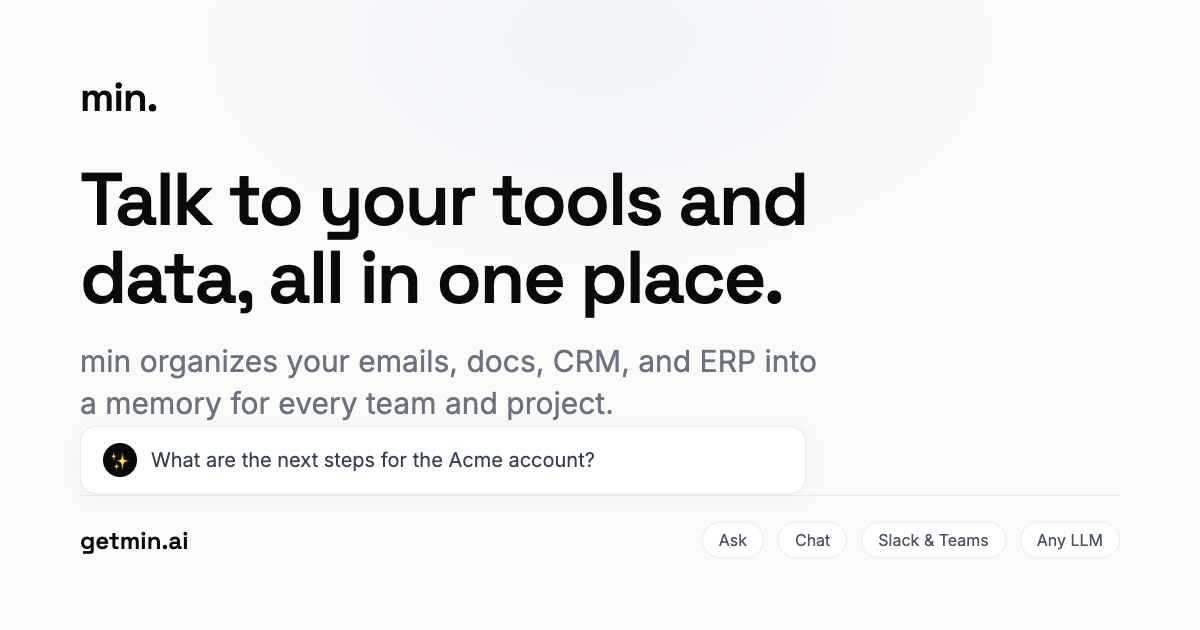
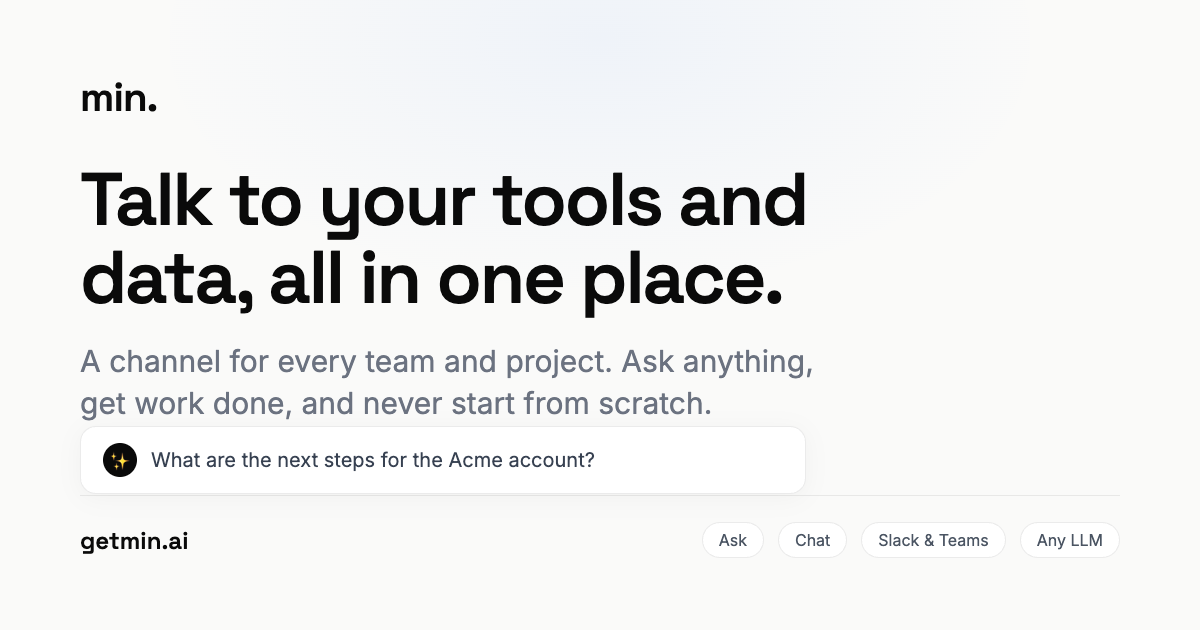
lets go

Changed region(s): [[0.0617, 0.5429, 0.6783, 0.6635]]

diff --git a/src/components/vision/BrainAnimation.tsx b/src/components/vision/BrainAnimation.tsx
@@ -216,7 +216,7 @@ export default function BrainAnimation() {
             transition={{ delay: 0.1 }}
             className="text-gray-500 text-base md:text-lg max-w-2xl mx-auto font-normal leading-relaxed"
           >
-            Watch min instantly pull scattered documents, emails, calls, and CRM/ERP records and sort them into the right team and project memories.
+            Watch min instantly pull scattered documents, emails, calls, and CRM/ERP records and sort them into the right team and project channels.
           </motion.p>
         </div>
 
@@ -226,61 +226,71 @@ export default function BrainAnimation() {
           {/* Animation Core Area */}
           <div className="w-full h-full relative flex items-center justify-center overflow-visible">
             
-            {/* Center Brain: Simple, Minimal, Styled Line-Art Vector Brain */}
+            {/* Center Brain: two mirrored hemispheres built from circular arcs */}
             <div className="relative w-[525px] h-[525px] flex items-center justify-center z-10">
-              <svg viewBox="0 0 100 100" className="w-full h-full text-gray-200 transition-colors duration-500" fill="none">
+              <svg viewBox="0 0 200 200" className="w-full h-full" fill="none">
                 {/* Subtle Background Radial Gradient Glow only when organized */}
                 <AnimatePresence>
                   {status === 'organized' && (
-                    <motion.circle 
+                    <motion.circle
                       initial={{ opacity: 0, scale: 0.8 }}
                       animate={{ opacity: 0.25, scale: 1 }}
                       exit={{ opacity: 0, scale: 0.8 }}
                       transition={{ duration: 0.6 }}
-                      cx="50" cy="50" r="38" 
-                      fill="url(#brainGlowRad)" 
+                      cx="100" cy="100" r="78"
+                      fill="url(#brainGlowRad)"
                     />
                   )}
                 </AnimatePresence>
 
-                {/* Symmetrical left and right brain contours */}
-                <motion.path 
-                  d="M 50 15 
-                     C 31 15, 17 28, 17 46 
-                     C 17 56, 23 62, 20 70 
-                     C 16 80, 25 88, 36 88 
-                     C 42 88, 44 81, 50 83" 
-                  stroke={status === 'organized' ? '#E2E8F0' : status === 'organizing' ? '#93C5FD' : '#E2E8F0'} 
-                  strokeWidth="1.5" 
-                  strokeLinecap="round" 
-                  strokeLinejoin="round" 
-                  fill="white" 
-                  className="shadow-sm filter drop-shadow-[0_4px_10px_rgba(0,0,0,0.01)]"
-                />
-                <motion.path 
-                  d="M 50 15 
-                     C 69 15, 83 28, 83 46 
-                     C 83 56, 77 62, 80 70 
-                     C 84 80, 75 88, 64 88 
-                     C 58 88, 56 81, 50 83" 
-                  stroke={status === 'organized' ? '#E2E8F0' : status === 'organizing' ? '#93C5FD' : '#E2E8F0'} 
-                  strokeWidth="1.5" 
-                  strokeLinecap="round" 
-                  strokeLinejoin="round" 
+                {/* Left hemisphere: outline of tangent circular arcs (lobes), straight medial edge */}
+                <motion.path
+                  d="M 97 26
+                     A 30 30 0 0 0 64 38
+                     A 30 30 0 0 0 41 62
+                     A 30 30 0 0 0 33 94
+                     A 30 30 0 0 0 38 126
+                     A 28 28 0 0 0 53 152
+                     A 26 26 0 0 0 78 168
+                     A 14 14 0 0 0 97 173
+                     L 97 26 Z"
+                  animate={{ stroke: status === 'organizing' ? '#BFDBFE' : '#E2E8F0' }}
+                  transition={{ duration: 0.5 }}
+                  strokeWidth="2"
+                  strokeLinecap="round"
+                  strokeLinejoin="round"
                   fill="white"
-                  className="shadow-sm filter drop-shadow-[0_4px_10px_rgba(0,0,0,0.01)]"
+                  className="filter drop-shadow-[0_6px_14px_rgba(15,23,42,0.04)]"
                 />
+                {/* Left gyri: two long inner contours echoing the outline */}
+                <path d="M 88 48 C 62 56, 50 80, 49 106" stroke="#EEF1F5" strokeWidth="2.2" strokeLinecap="round" />
+                <path d="M 86 150 C 68 145, 56 128, 53 110" stroke="#EEF1F5" strokeWidth="2.2" strokeLinecap="round" />
+                <path d="M 90 94 C 80 90, 73 82, 71 72" stroke="#EEF1F5" strokeWidth="2.2" strokeLinecap="round" />
 
-                {/* Simple lobe line accents representing the hemispheres beautifully */}
-                <path d="M 31 32 C 31 38, 43 40, 50 36 M 41 22 C 39 32, 47 34, 50 42" stroke="#F1F5F9" strokeWidth="1.2" />
-                <path d="M 69 32 C 69 38, 57 40, 50 36 M 59 22 C 61 32, 53 34, 50 42" stroke="#F1F5F9" strokeWidth="1.2" />
-                <path d="M 19 50 C 25 50, 32 55, 39 55 C 43 55, 47 49, 50 51" stroke="#F1F5F9" strokeWidth="1.2" />
-                <path d="M 81 50 C 75 50, 68 55, 61 55 C 57 55, 53 49, 50 51" stroke="#F1F5F9" strokeWidth="1.2" />
-                <path d="M 28 73 C 32 66, 40 69, 50 64" stroke="#F1F5F9" strokeWidth="1.2" />
-                <path d="M 72 73 C 68 66, 60 69, 50 64" stroke="#F1F5F9" strokeWidth="1.2" />
-                
-                {/* Divider line */}
-                <line x1="50" y1="15" x2="50" y2="83" stroke="#F1F5F9" strokeWidth="1.5" strokeDasharray="2 2" />
+                {/* Right hemisphere: exact mirror of the left */}
+                <g transform="translate(200 0) scale(-1 1)">
+                  <motion.path
+                    d="M 97 26
+                       A 30 30 0 0 0 64 38
+                       A 30 30 0 0 0 41 62
+                       A 30 30 0 0 0 33 94
+                       A 30 30 0 0 0 38 126
+                       A 28 28 0 0 0 53 152
+                       A 26 26 0 0 0 78 168
+                       A 14 14 0 0 0 97 173
+                       L 97 26 Z"
+                    animate={{ stroke: status === 'organizing' ? '#BFDBFE' : '#E2E8F0' }}
+                    transition={{ duration: 0.5 }}
+                    strokeWidth="2"
+                    strokeLinecap="round"
+                    strokeLinejoin="round"
+                    fill="white"
+                    className="filter drop-shadow-[0_6px_14px_rgba(15,23,42,0.04)]"
+                  />
+                  <path d="M 88 48 C 62 56, 50 80, 49 106" stroke="#EEF1F5" strokeWidth="2.2" strokeLinecap="round" />
+                  <path d="M 86 150 C 68 145, 56 128, 53 110" stroke="#EEF1F5" strokeWidth="2.2" strokeLinecap="round" />
+                  <path d="M 90 94 C 80 90, 73 82, 71 72" stroke="#EEF1F5" strokeWidth="2.2" strokeLinecap="round" />
+                </g>
 
                 <defs>
                   <radialGradient id="brainGlowRad" cx="50%" cy="50%" r="50%">
@@ -290,18 +300,31 @@ export default function BrainAnimation() {
                 </defs>
               </svg>
 
-              {/* Minimalist State Indicator Widget right in the brain center */}
-              <div className="absolute z-20 inset-0 flex items-center justify-center p-6">
-                <div className="w-[125px] h-[125px] rounded-full bg-white border border-gray-200 shadow-md flex items-center justify-center flex-col p-3 text-center">
-                  <span className="text-[11px] font-bold text-gray-800 tracking-wider uppercase font-sans leading-tight">
-                    Collective<br />Memory
+              {/* Status pill narrating the animation state */}
+              <div className="absolute z-20 inset-0 flex items-center justify-center pointer-events-none">
+                <motion.div
+                  key={status}
+                  initial={{ opacity: 0, y: 6 }}
+                  animate={{ opacity: 1, y: 0 }}
+                  transition={{ duration: 0.3 }}
+                  className="flex items-center gap-2 rounded-full bg-white border border-gray-200 shadow-md px-4 py-2"
+                >
+                  {status === 'organized' ? (
+                    <span className="w-4 h-4 rounded-full bg-emerald-500 flex items-center justify-center">
+                      <Check className="w-2.5 h-2.5 text-white" strokeWidth={3.5} />
+                    </span>
+                  ) : (
+                    <span className={`w-2 h-2 rounded-full ${status === 'organizing' ? 'bg-blue-500 animate-pulse' : 'bg-amber-400'}`} />
+                  )}
+                  <span className="text-xs font-semibold text-gray-800 whitespace-nowrap">
+                    {status === 'messy' ? 'Scattered across your tools' : status === 'organizing' ? 'min is organizing...' : 'Organized into channels'}
                   </span>
-                </div>
+                </motion.div>
               </div>
             </div>
 
             {/* Scattered Document Cards smoothly transitioning */}
-            {INITIAL_FILES.map((file) => {
+            {INITIAL_FILES.map((file, idx) => {
               const isLeft = file.side === 'left';
               const stackX = file.organizedX + file.stackIndex * 6;
               const stackY = file.organizedY + file.stackIndex * 8;
@@ -318,16 +341,9 @@ export default function BrainAnimation() {
                     scale: 1,
                     opacity: 1,
                     zIndex: 10,
-                  } : status === 'organizing' ? {
-                    // Smooth mid-way drift
-                    x: stackX * 0.4,
-                    y: stackY * 0.4,
-                    rotate: file.messyRotate * 0.4,
-                    scale: 0.85 - file.stackIndex * 0.02,
-                    opacity: 0.7,
-                    zIndex: 30 - file.stackIndex,
                   } : {
-                    // Organized and layered inside hemispheres
+                    // Stream straight into the hemisphere stacks; no mid-point
+                    // pile-up at the center.
                     x: stackX,
                     y: stackY,
                     rotate: stackRotate,
@@ -335,11 +351,12 @@ export default function BrainAnimation() {
                     opacity: 1,
                     zIndex: 30 - file.stackIndex,
                   }}
-                  transition={{ 
-                    type: 'spring', 
-                    stiffness: status === 'organizing' ? 140 : 85, 
-                    damping: status === 'organizing' ? 22 : 14,
+                  transition={{
+                    type: 'spring',
+                    stiffness: status === 'organizing' ? 110 : 85,
+                    damping: status === 'organizing' ? 20 : 14,
                     mass: 1.0,
+                    delay: status === 'organizing' ? idx * 0.06 : 0,
                   }}
                   className={`absolute rounded-xl border bg-white border-gray-200/80 p-2 text-[11px] pr-3.5 flex items-center gap-3 transition-shadow cursor-default select-none group w-[212px] ${
                     status === 'organized' 

diff --git a/src/components/vision/FadeIn.tsx b/src/components/vision/FadeIn.tsx
@@ -2,10 +2,11 @@ import { motion } from 'motion/react';
 import { ReactNode, useEffect, useRef, useState } from 'react';
 
 /**
- * Scroll-reveal wrapper. Uses a getBoundingClientRect check on mount + scroll
- * (reliable in every environment, unlike IntersectionObserver which can stay
- * dormant in background/headless tabs) plus a short mount safety-net so content
- * is never left permanently hidden.
+ * Scroll-reveal wrapper. Uses a getBoundingClientRect check on mount, scroll,
+ * and resize (reliable in every environment, unlike IntersectionObserver which
+ * can stay dormant in background/headless tabs). Rechecks after layout settles
+ * (rAF + window load) so late image/font shifts don't strand visible content.
+ * Off-screen content stays hidden until it actually scrolls into view.
  */
 export function FadeIn({ children, delay = 0, className = "" }: { children: ReactNode, delay?: number, className?: string, key?: any }) {
   const ref = useRef<HTMLDivElement>(null);
@@ -15,30 +16,35 @@ export function FadeIn({ children, delay = 0, className = "" }: { children: Reac
     const el = ref.current;
     if (!el) return;
 
+    let revealed = false;
     const check = () => {
+      if (revealed) return true;
       const r = el.getBoundingClientRect();
       const vh = window.innerHeight || document.documentElement.clientHeight;
       if (r.top < vh - 50 && r.bottom > 0) {
+        revealed = true;
         setShow(true);
+        cleanup();
         return true;
       }
       return false;
     };
 
-    if (check()) return;
-
-    const onScroll = () => { if (check()) cleanup(); };
+    const onScroll = () => check();
     const cleanup = () => {
       window.removeEventListener('scroll', onScroll);
       window.removeEventListener('resize', onScroll);
+      window.removeEventListener('load', onScroll);
     };
+
+    if (check()) return;
+
     window.addEventListener('scroll', onScroll, { passive: true });
     window.addEventListener('resize', onScroll);
+    window.addEventListener('load', onScroll);
+    const raf = requestAnimationFrame(() => check());
 
-    // Safety net: reveal shortly after mount even if no scroll occurs.
-    const t = setTimeout(() => setShow(true), 600);
-
-    return () => { cleanup(); clearTimeout(t); };
+    return () => { cleanup(); cancelAnimationFrame(raf); };
   }, []);
 
   return (

diff --git a/src/components/vision/SearchMockup.tsx b/src/components/vision/SearchMockup.tsx
@@ -299,7 +299,12 @@ export function SearchMockup() {
               {/* Chat History Flow Area */}
               <div ref={chatContainerRef} className="flex-1 w-full flex flex-col gap-6 p-5 md:p-6 overflow-y-auto scrollbar-thin">
                 <AnimatePresence mode="wait">
-                  <div key={activeId} className="flex flex-col gap-6 w-full max-w-2xl mx-auto">
+                  <motion.div
+                    key={activeId}
+                    exit={{ opacity: 0, y: -8 }}
+                    transition={{ duration: 0.2, ease: 'easeIn' }}
+                    className="flex flex-col gap-6 w-full max-w-2xl mx-auto"
+                  >
                 
                 {/* 1. User Message (always shown when use case starts) */}
                 <motion.div 
@@ -374,8 +379,8 @@ export function SearchMockup() {
                     </div>
                   </motion.div>
                 )}
-                
-              </div>
+
+              </motion.div>
             </AnimatePresence>
           </div>
 

diff --git a/index.html b/index.html
@@ -7,7 +7,7 @@
     <title>min. | Talk to your tools and data, all in one place</title>
     <!-- Primary Meta Tags -->
     <meta name="title" content="min. | Talk to your tools and data, all in one place" />
-    <meta name="description" content="min organizes your company's emails, docs, CRM, and ERP into a memory for every team and project. Ask anything and get answers grounded in your knowledge, and keep everyone aligned in Slack, Teams, or the AI of your choice." />
+    <meta name="description" content="min. lets you organize your emails, docs, CRM, and ERP into a channel for every team and project. Ask anything, get work done, and never start from scratch, in Slack, Teams, or the AI of your choice." />
     <meta name="keywords" content="collective company memory, knowledge centralization, unified company knowledge, AI knowledge base, answers across company data, Slack AI assistant, Teams AI assistant, CRM ERP AI, enterprise AI memory, team and project memory" />
     <meta name="author" content="min." />
 
@@ -15,7 +15,7 @@
     <meta property="og:type" content="website" />
     <meta property="og:url" content="https://getmin.ai/" />
     <meta property="og:title" content="min. | Talk to your tools and data, all in one place" />
-    <meta property="og:description" content="min organizes your company's emails, docs, CRM, and ERP into a memory for every team and project. Ask anything and get answers grounded in your knowledge, and keep everyone aligned." />
+    <meta property="og:description" content="min. lets you organize your emails, docs, CRM, and ERP into a channel for every team and project. Ask anything, get work done, and never start from scratch." />
     <meta property="og:image" content="https://getmin.ai/og-image.png" />
     <meta property="og:image:width" content="1200" />
     <meta property="og:image:height" content="630" />
@@ -27,7 +27,7 @@
     <meta name="twitter:card" content="summary_large_image" />
     <meta name="twitter:url" content="https://getmin.ai/" />
     <meta name="twitter:title" content="min. | Talk to your tools and data, all in one place" />
-    <meta name="twitter:description" content="min organizes your company's emails, docs, CRM, and ERP into a memory for every team and project. Ask anything and get answers grounded in your knowledge, and keep everyone aligned." />
+    <meta name="twitter:description" content="min. lets you organize your emails, docs, CRM, and ERP into a channel for every team and project. Ask anything, get work done, and never start from scratch." />
     <meta name="twitter:image" content="https://getmin.ai/og-image.png" />
     <meta name="twitter:image:alt" content="min. | Talk to your tools and data, all in one place" />
     <meta name="twitter:creator" content="@getminai" />
@@ -52,12 +52,12 @@
       "@context": "https://schema.org",
       "@type": "SoftwareApplication",
       "name": "min.",
-      "description": "min organizes your company's emails, docs, CRM, and ERP into a memory for every team and project. Ask anything and get answers grounded in your knowledge, and keep everyone aligned in Slack, Teams, or the AI of your choice.",
+      "description": "min. lets you organize your emails, docs, CRM, and ERP into a channel for every team and project. Ask anything, get work done, and never start from scratch, in Slack, Teams, or the AI of your choice.",
       "applicationCategory": "BusinessApplication",
       "applicationSubCategory": "Knowledge Management",
       "operatingSystem": "Web",
       "featureList": [
-        "Organize emails, docs, calls, CRM, and ERP into memory for every team and project",
+        "Organize emails, docs, calls, CRM, and ERP into a channel for every team and project",
         "Ask anything and get answers grounded in your company's knowledge",
         "Connect Gmail, Outlook, Salesforce, HubSpot, Slack, Notion, GitHub, and more",
         "Use it in Slack, Microsoft Teams, or the LLM of your choice",

diff --git a/src/pages/Careers.tsx b/src/pages/Careers.tsx
@@ -115,8 +115,8 @@ export default function Careers() {
                 </h2>
                 <p className="text-gray-600 text-sm leading-relaxed mb-7 max-w-md mx-auto">
                   Send a resume or a link to something you're proud of. Tell us
-                  why you're excited about building one brain for a company's
-                  knowledge. We'll write back.
+                  why you're excited about giving every team a memory that
+                  compounds. We'll write back.
                 </p>
                 <div
                   className={`${CARD_SURFACE} flex items-center justify-between gap-3 px-4 py-3 mb-6 max-w-sm mx-auto`}

diff --git a/public/og-image.html b/public/og-image.html
@@ -136,7 +136,7 @@
                     data, all in one place.
                 </div>
                 <div class="subheadline">
-                    min organizes your emails, docs, CRM, and ERP into a memory for every team and project.
+                    A channel for every team and project. Ask anything, get work done, and never start from scratch.
                 </div>
             </div>
 

diff --git a/src/pages/Index.tsx b/src/pages/Index.tsx
@@ -15,7 +15,7 @@ const Index = () => {
         <title>min. | Talk to your tools and data, all in one place</title>
         <meta
           name="description"
-          content="min organizes your company's emails, docs, CRM, and ERP into a memory for every team and project. Ask anything and get answers grounded in your knowledge, and keep everyone aligned in Slack, Teams, or the AI of your choice."
+          content="min. lets you organize your emails, docs, CRM, and ERP into a channel for every team and project. Ask anything, get work done, and never start from scratch, in Slack, Teams, or the AI of your choice."
         />
         <link rel="canonical" href="https://getmin.ai" />
       </Helmet>